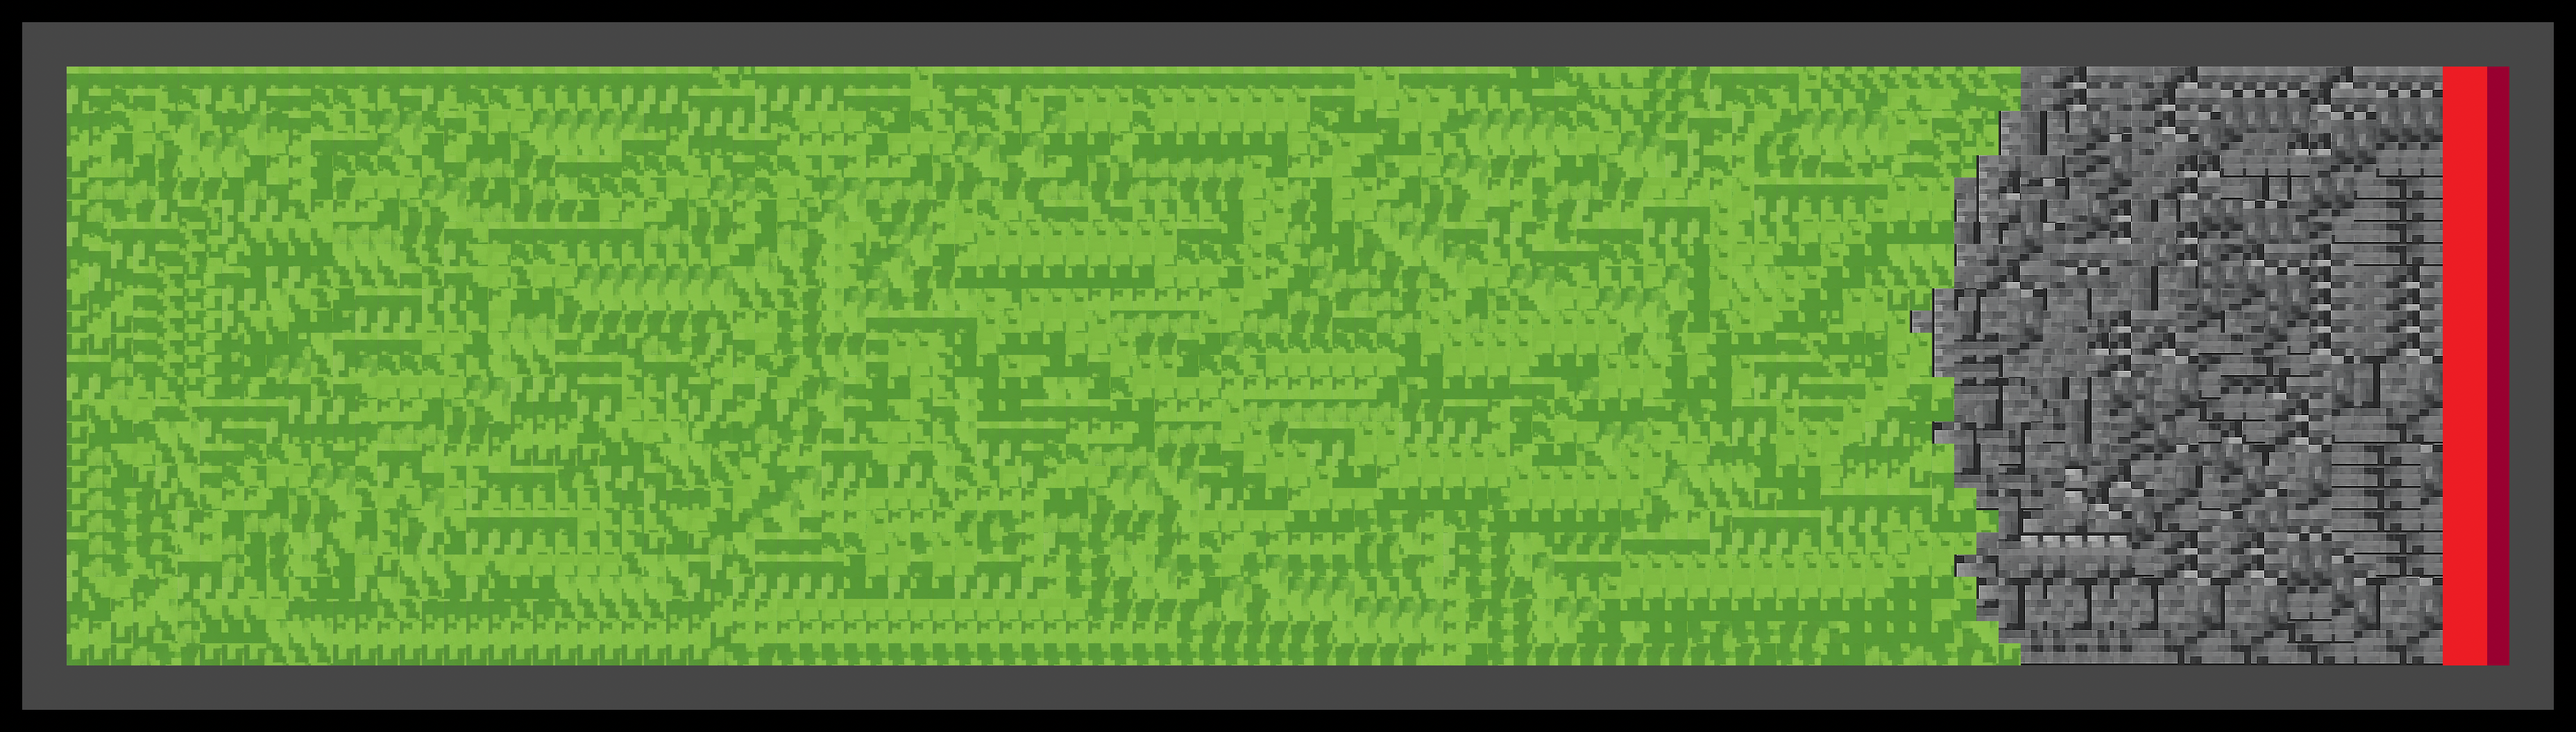
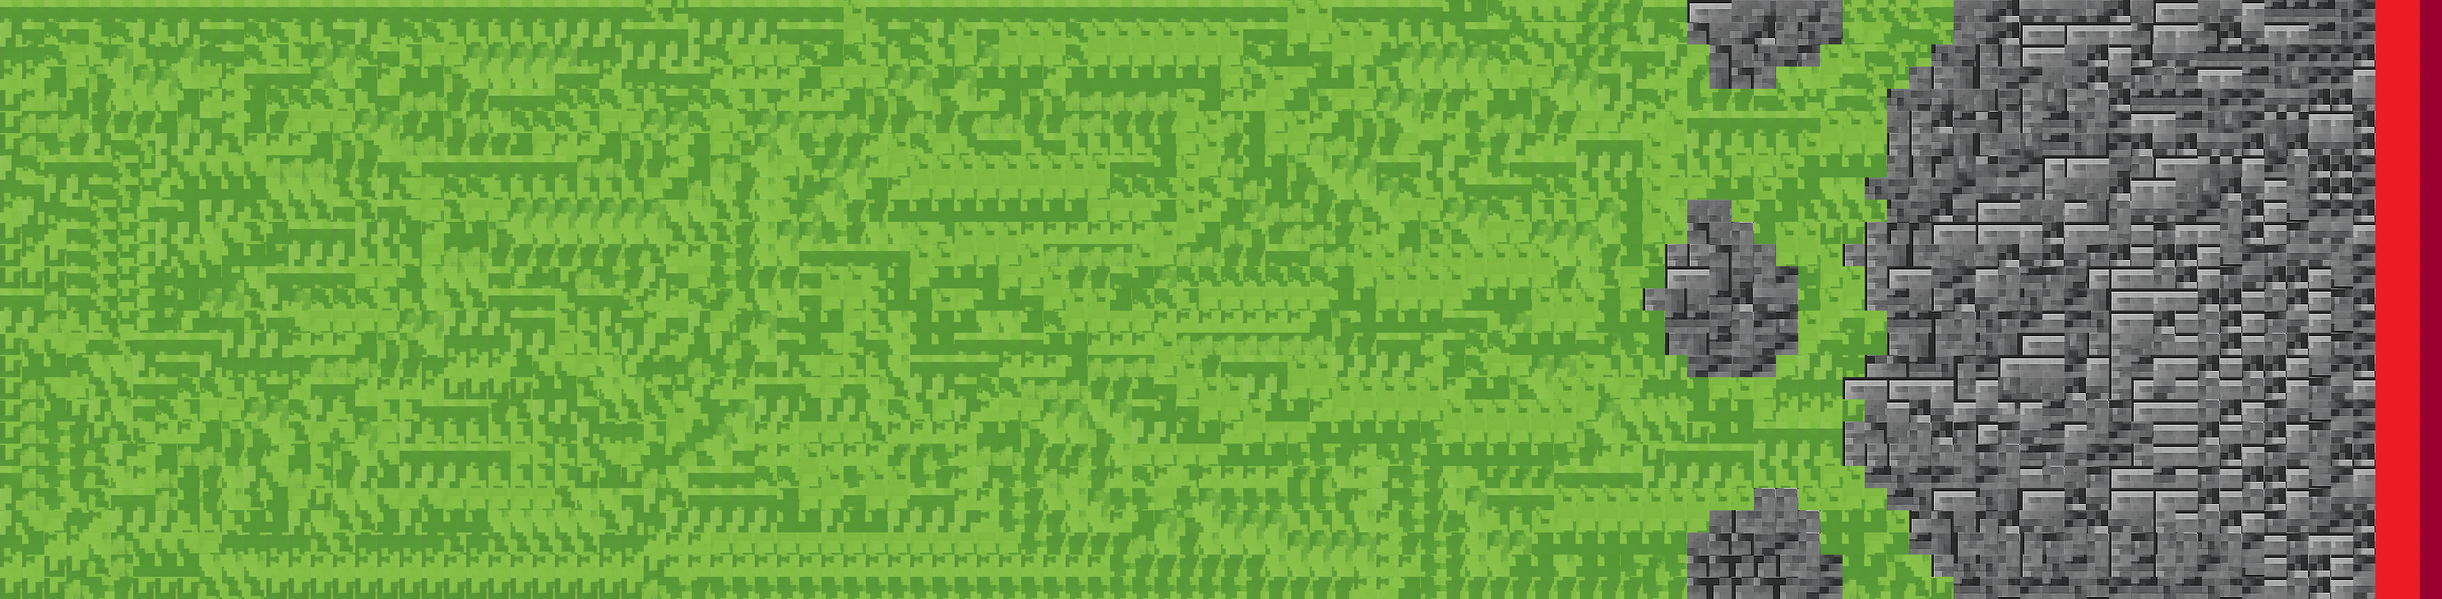
fix: new maps without border

diff --git a/Assets/Levels/Level-2/beach_textures.tsx b/Assets/Levels/Level-2/beach_textures.tsx
@@ -1,0 +1,4 @@
+<?xml version="1.0" encoding="UTF-8"?>
+<tileset version="1.10" tiledversion="1.11.2" name="beach_textures" tilewidth="32" tileheight="32" tilecount="2" columns="1">
+ <image source="level_1.png" width="32" height="64"/>
+</tileset>

diff --git a/Source/Systems/SceneManager/SceneManagerSystem.cpp b/Source/Systems/SceneManager/SceneManagerSystem.cpp
@@ -173,7 +173,7 @@ void SceneManagerSystem::BuildPauseMenu() {
 
 void SceneManagerSystem::BuildFirstLevel() {
     mGame->SetBackgroundImage(
-        "../Assets/Levels/Level-1/level_1_new.png",
+        "../Assets/Levels/Level-1/level_1_no_border.png",
         Vector2::Zero,
         Vector2(TILE_SIZE * FIRST_LEVEL_WIDTH, TILE_SIZE * FIRST_LEVEL_HEIGHT)
     );
